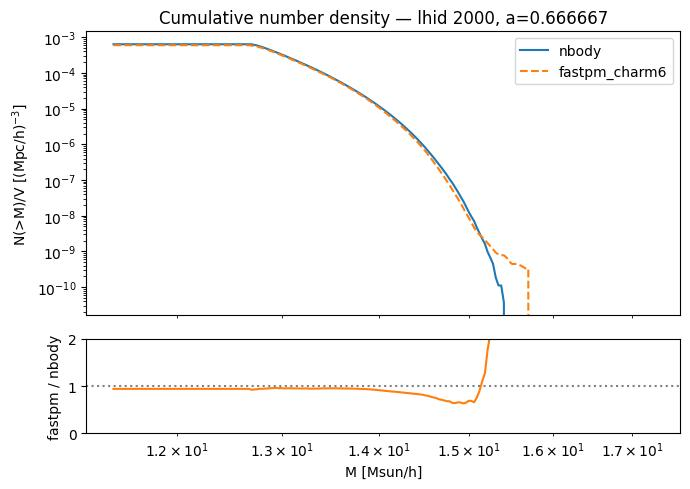
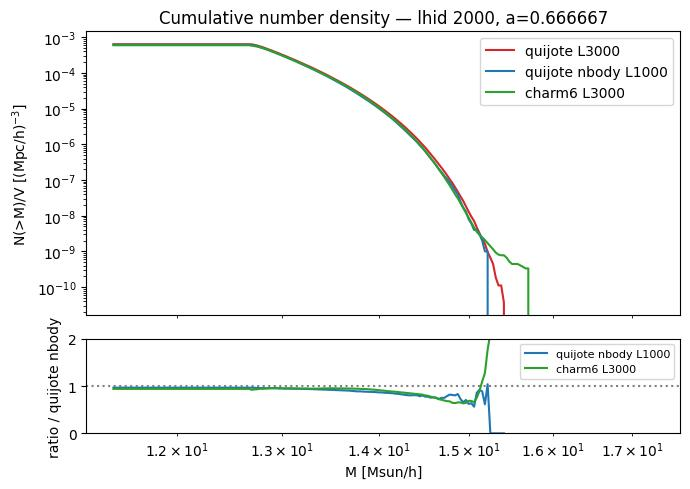
updating 3gpch charm comparison with 1 gpch too

diff --git a/experiments/2026-07-09_sanity_nbody_vs_fastpm_L3000/update.md b/experiments/2026-07-09_sanity_nbody_vs_fastpm_L3000/update.md
@@ -2,17 +2,17 @@
 
 **Date**: 2026-07-09
 **Type**: Miscellaneous / sanity
-**Suite**: N-body (reference) vs. fastpm_charm6, L=3 Gpc/h, lhid 2000, a=0.666667
+**Suite**: quijote N-body L=3 Gpc/h (reference) vs. fastpm_charm6 L=3 Gpc/h vs. quijote N-body L=1 Gpc/h, lhid 2000, a=0.666667
 
 ---
 
 ## Overview
 
-- Total halo number density is lower in fastpm_charm6 than in the N-body reference (N_slab = 328,657 vs. 344,210 in the full-box projection). The HMF ratio sits at ~0.85–1.0 across the bulk of the mass range, with a dip to ~0.6 around M ~ 1.5×10^15 Msun/h before spiking above 1 at the highest masses.
+- Total halo number density is lower in fastpm_charm6 than in the quijote L=3 Gpc/h N-body reference (N_slab = 328,657 vs. 344,210 in the full-box projection). The HMF ratio sits at ~0.85–1.0 across the bulk of the mass range, with a dip to ~0.6 around M ~ 1.5×10^15 Msun/h before spiking above 1 at the highest masses. The quijote L=1 Gpc/h N-body ratio (relative to the L=3 Gpc/h reference) tracks this same deficit closely from ~10^13 up to ~1.5×10^15 Msun/h, indicating the discrepancy seen in charm6 L3000 is also present in quijote nbody L1000 over this range. Above ~1.5×10^15 Msun/h the L1000 ratio drops to zero as the smaller box runs out of halos at the highest masses, unlike charm6 L3000 which continues to the same mass range as the reference.
 
 ![Halo mass function](figures/halo_mass_function.jpg)
 
-- The cumulative number density confirms fastpm_charm6 falls below the N-body reference across most mass thresholds, with the fastpm/nbody ratio dipping to ~0.6–0.7 near M ~ 1.5×10^15 Msun/h and then rising sharply above 1 at the highest-mass end where counts are low.
+- The cumulative number density shows the same pattern: fastpm_charm6 falls below the quijote L=3 Gpc/h N-body reference across most mass thresholds, with the ratio dipping to ~0.6–0.7 near M ~ 1.5×10^15 Msun/h before rising sharply above 1 at the highest-mass end where counts are low. The quijote L=1 Gpc/h N-body ratio follows the same deficit trend as charm6 L3000 up to ~1.5×10^15 Msun/h, then drops to zero at higher masses due to the limited volume of the L1000 box.
 
 ![Cumulative number density](figures/cumulative_number_density.jpg)
 